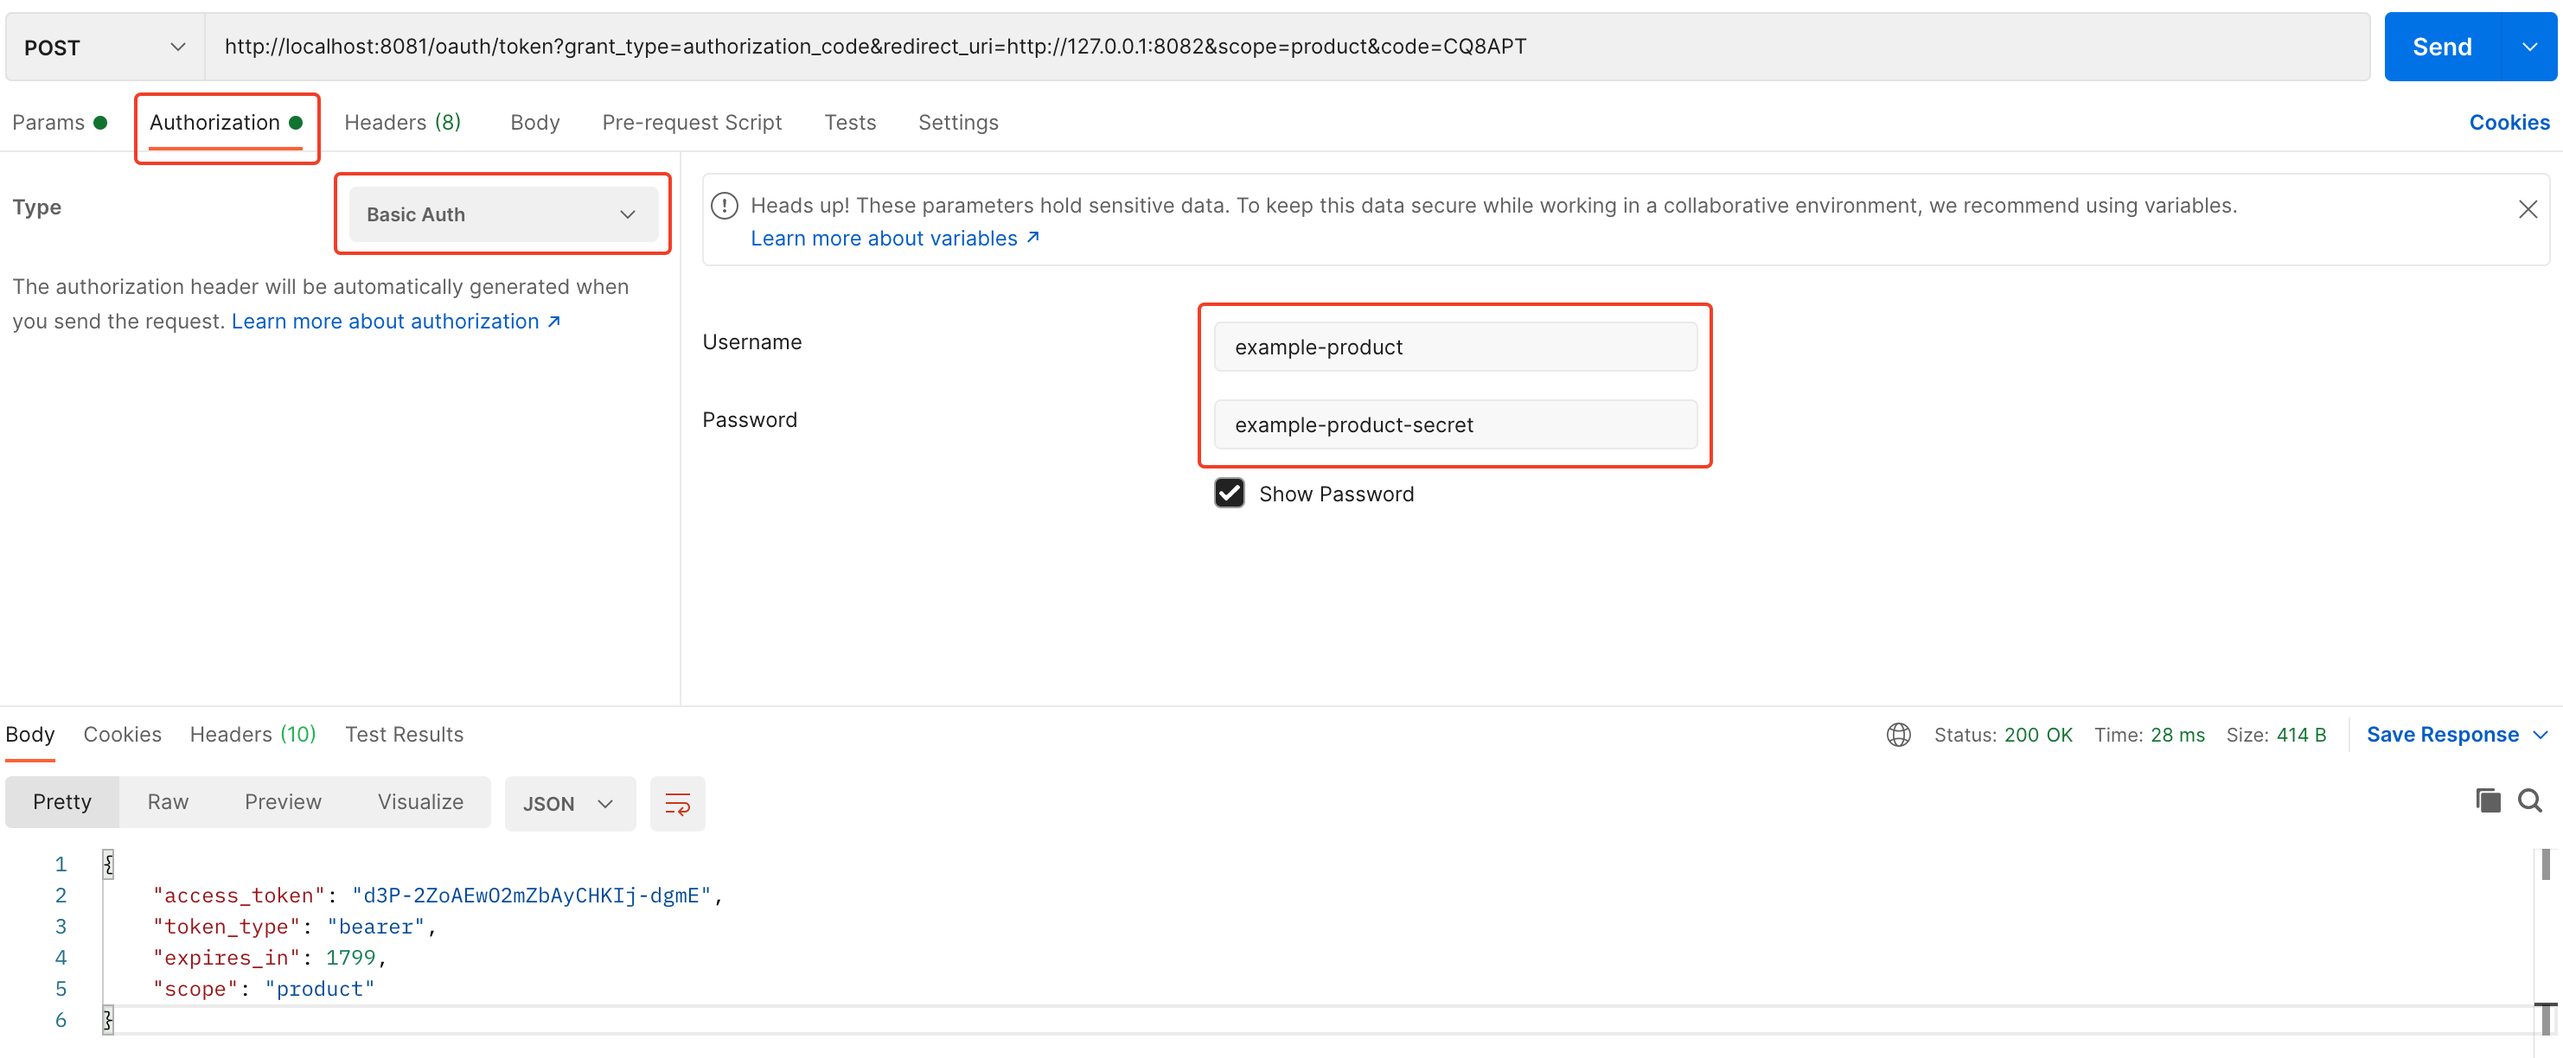
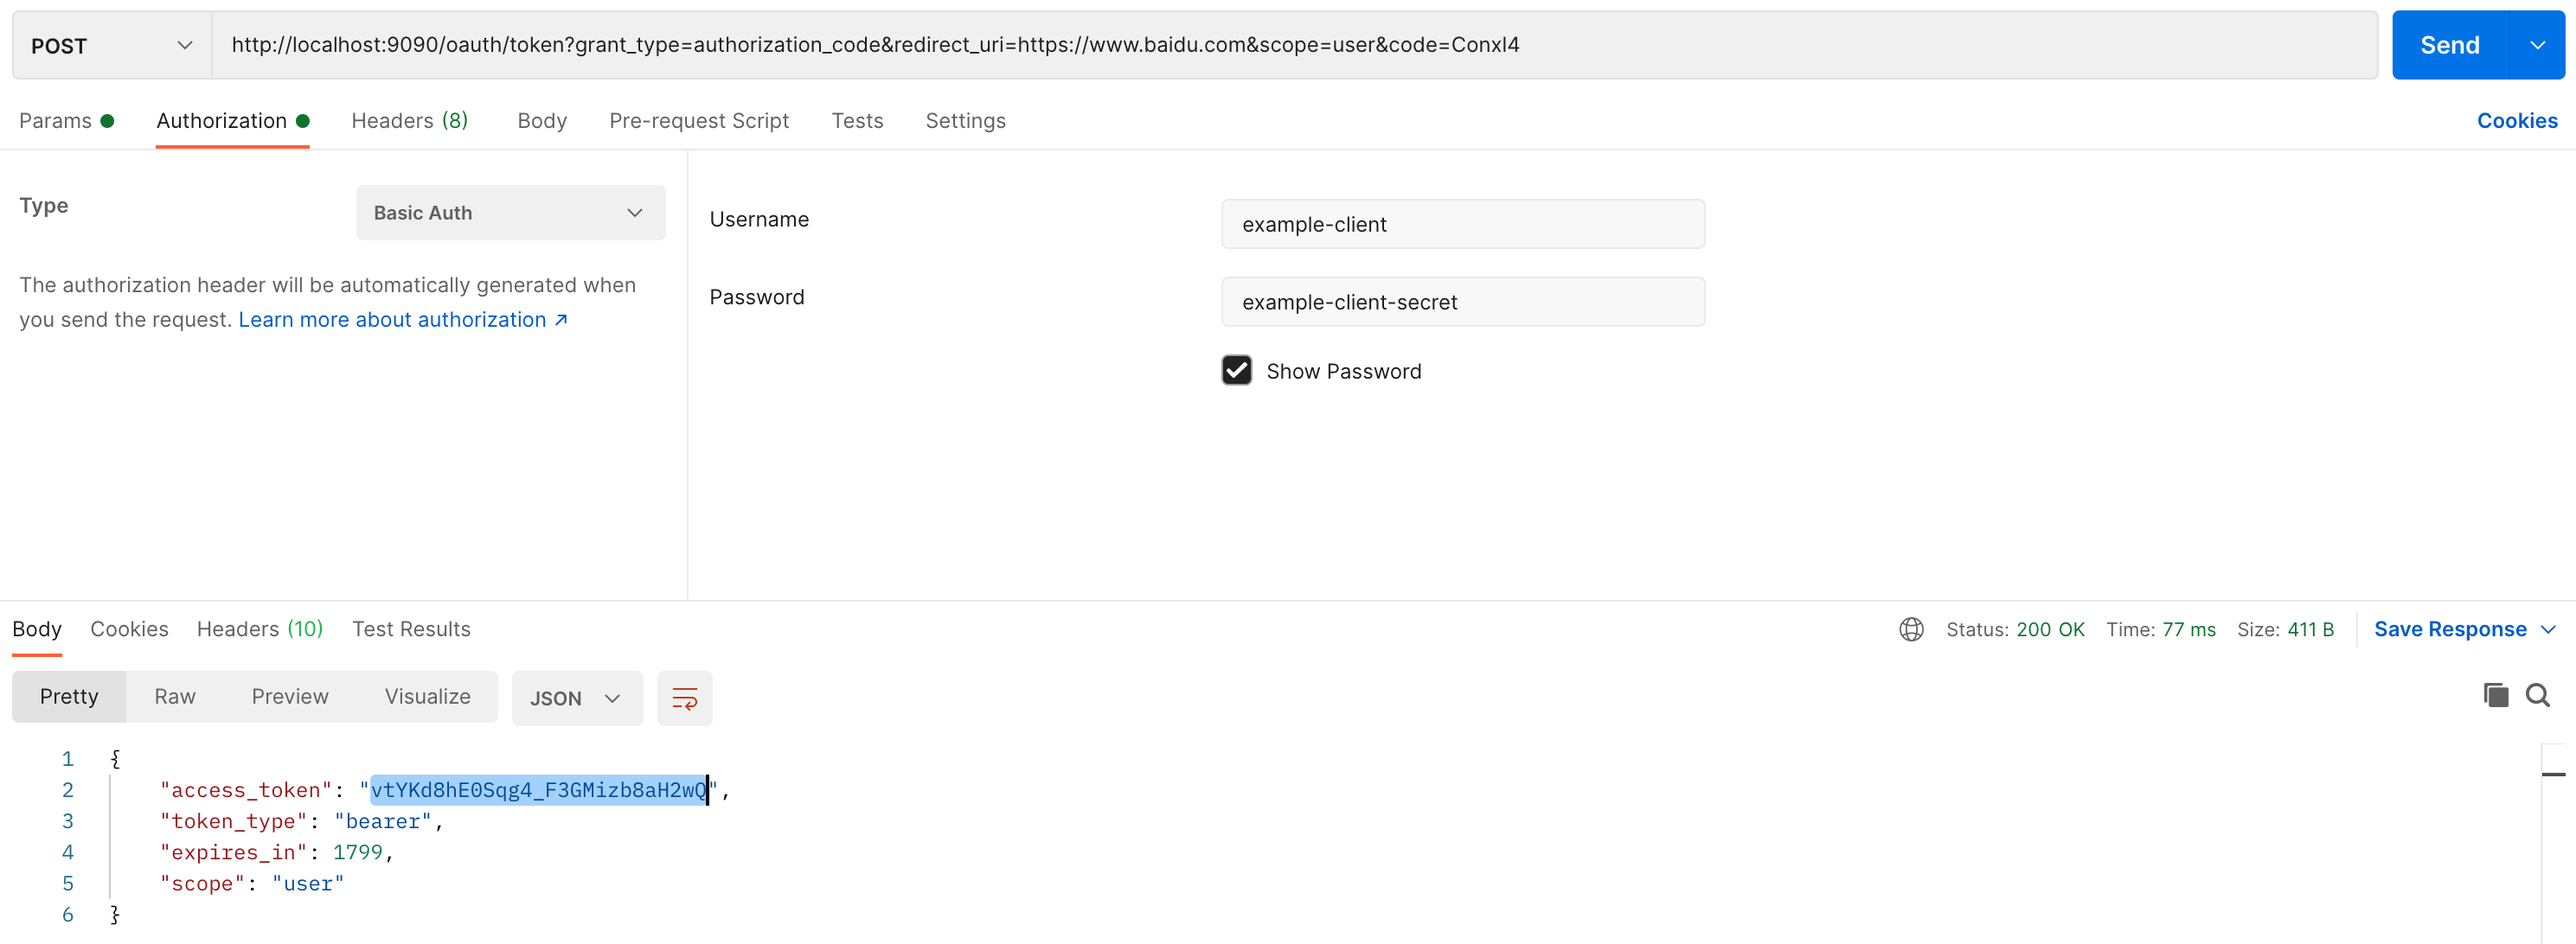
update

diff --git a/source/_posts/2023-11-04-spring-security-oauth2-practice.md b/source/_posts/2023-11-04-spring-security-oauth2-practice.md
@@ -8,7 +8,7 @@ tags:
 
 <!-- more -->
 
-关于 OAuth2 的基本概念和授权流程不再赘述，可以参考 [OAuth 2.0](https://oauth.net/2/) 和 [The OAuth 2.0 Authorization Framework](https://datatracker.ietf.org/doc/html/rfc6749) 进行学习。在我们构建的例子中虚拟用户 Bob 是 **Resource Owner**，`example-product` 工程是 **Resource Server**，Web Browser 和 Postman 充当了 **Client**，而工程 `example-auth` 是 **Authorization Server**。完整的项目目录结构如下所示
+关于 OAuth2 的基本概念和授权流程不再赘述，可以参考 [OAuth 2.0](https://oauth.net/2/) 和 [The OAuth 2.0 Authorization Framework](https://datatracker.ietf.org/doc/html/rfc6749) 进行学习。在我们构建的例子中虚拟用户 Bob 是 **Resource Owner**，`example-user` 工程是 **Resource Server**，Web Browser 和 Postman 充当了 **Client**，而工程 `example-auth` 是 **Authorization Server**。完整的项目目录结构如下所示
 
 ```text
 ├── example-auth
@@ -25,23 +25,23 @@ tags:
 │           │                   └── WebSecurityConfig.java               # Web 安全配置类
 │           └── resources
 │               └── application.yml                                      # 配置文件
-├── example-product
+├── example-user
 │   ├── pom.xml
 │   └── src
 │       └── main
 │           ├── java
 │           │   └── com
 │           │       └── example
-│           │           └── product
-│           │               ├── ExampleProductApplication.java          # 启动类
+│           │           └── user
+│           │               ├── ExampleUserApplication.java             # 启动类
 │           │               ├── config
 │           │               │   ├── MethodSecurityConfig.java           # 方法安全配置类
 │           │               │   ├── OAuth2ResourceServerConfig.java     # 资源服务器配置类
 │           │               │   └── WebSecurityConfig.java              # Web 安全配置类
 │           │               ├── controller
-│           │               │   └── ProductController.java              # 资源接口类
+│           │               │   └── UserController.java                 # 资源接口类
 │           │               └── entity
-│           │                   └── Product.java                        # 资源类
+│           │                   └── User.java                           # 资源类
 │           └── resources
 │               └── application.yml                                     # 配置文件
 └── pom.xml
@@ -113,11 +113,11 @@ tags:
 
 ### 端口配置
 
-我们给授权服务器分配的端口为 `8081`，配置在 `application.yml` 文件中
+我们给授权服务器分配的端口为 `9090`，配置在 `application.yml` 文件中
 
 ```yaml
 server:
-  port: 8081
+  port: 9090
 ```
 
 ### Web 安全配置
@@ -194,11 +194,11 @@ public class OAuth2AuthorizationServerConfig extends AuthorizationServerConfigur
     @Override
     public void configure(ClientDetailsServiceConfigurer clients) throws Exception {
         clients.inMemory()
-                .withClient("example-product")          // 客户端 ID
-                .secret("{noop}example-product-secret") // 客户端登录密码
+                .withClient("example-client")          // 客户端 ID
+                .secret("{noop}example-client-secret") // 客户端登录密码
                 .autoApprove(false)
-                .redirectUris("http://127.0.0.1:8082")  // 获取授权码后的跳转地址，这里配置的是资源服务器的地址
-                .scopes("product", "user")
+                .redirectUris("https://www.baidu.com") // 获取授权码后的跳转地址
+                .scopes("user", "product")
                 .accessTokenValiditySeconds(30 * 60)
                 .authorizedGrantTypes("authorization_code", "implicit", "password", "client_credentials");
     }
@@ -238,7 +238,7 @@ public class OAuth2AuthorizationServerConfig extends AuthorizationServerConfigur
         <version>0.0.1-SNAPSHOT</version>
     </parent>
 
-    <artifactId>example-product</artifactId>
+    <artifactId>example-user</artifactId>
 
     <dependencies>
         <dependency>
@@ -278,11 +278,11 @@ public class OAuth2AuthorizationServerConfig extends AuthorizationServerConfigur
 
 ### 端口配置
 
-我们给资源服务器分配的端口为 `8082`，配置在 `application.yml` 文件中
+我们给资源服务器分配的端口为 `8081`，配置在 `application.yml` 文件中
 
 ```yaml
 server:
-  port: 8082
+  port: 8081
 ```
 
 ### 资源和资源接口
@@ -293,7 +293,7 @@ server:
 import lombok.Data;
 
 @Data
-public class Product {
+public class User {
     private Integer id;
 
     private String name;
@@ -303,7 +303,7 @@ public class Product {
 我们的资源接口也很简单，它只有一个访问详情的接口
 
 ```java
-import com.example.product.entity.Product;
+import com.example.user.entity.User;
 import org.springframework.security.access.prepost.PreAuthorize;
 import org.springframework.web.bind.annotation.GetMapping;
 import org.springframework.web.bind.annotation.PathVariable;
@@ -311,20 +311,20 @@ import org.springframework.web.bind.annotation.RequestMapping;
 import org.springframework.web.bind.annotation.RestController;
 
 @RestController
-@RequestMapping("/product")
-public class ProductController {
+@RequestMapping("/user")
+public class UserController {
     @GetMapping("/{id}")
-    @PreAuthorize("#oauth2.hasScope('product')")
-    public Product detail(@PathVariable("id") Integer id) {
-        Product product = new Product();
-        product.setId(id);
-        product.setName("product-" + id);
-        return product;
+    @PreAuthorize("#oauth2.hasScope('user')")
+    public User detail(@PathVariable("id") Integer id) {
+        User user = new User();
+        user.setId(id);
+        user.setName("user-" + id);
+        return user;
     }
 }
 ```
 
-注意到 `@PreAuthorize("#oauth2.hasScope('product')")` 这行代码中的 `#oauth2.hasScope('product')`，我们需要开启全局的方法安全才会生效，参考后面的方法安全配置类。
+注意到 `@PreAuthorize("#oauth2.hasScope('user')")` 这行代码中的 `#oauth2.hasScope('user')`，我们需要开启全局的方法安全才会生效，参考后面的方法安全配置类。
 
 ### Web 安全配置
 
@@ -361,9 +361,9 @@ public class OAuth2ResourceServerConfig extends ResourceServerConfigurerAdapter 
     @Override
     public void configure(ResourceServerSecurityConfigurer resources) throws Exception {
         RemoteTokenServices tokenServices = new RemoteTokenServices();
-        tokenServices.setCheckTokenEndpointUrl("http://localhost:8081/oauth/check_token"); //授权服务器校验 access_token 的地址
-        tokenServices.setClientId("example-product");            // 在授权服务器配置的客户端 ID
-        tokenServices.setClientSecret("example-product-secret"); // 在授权服务器配置的客户端密码
+        tokenServices.setCheckTokenEndpointUrl("http://localhost:9090/oauth/check_token"); //授权服务器校验 access_token 的地址
+        tokenServices.setClientId("example-client");            // 在授权服务器配置的客户端 ID
+        tokenServices.setClientSecret("example-client-secret"); // 在授权服务器配置的客户端密码
 
         resources.tokenServices(tokenServices);
     }
@@ -397,15 +397,15 @@ public class MethodSecurityConfig extends GlobalMethodSecurityConfiguration {
 
 ### 申请授权码
 
-在浏览器中访问 [http://localhost:8081/oauth/authorize?client_id=example-product&cliect_secret=example-product-secret&response_type=code](http://localhost:8081/oauth/authorize?client_id=example-product&cliect_secret=example-product-secret&response_type=code) 申请授权码，其中的 `client_id` 和 `cliect_secret` 的值就是在授权服务器配置类中配置的客户端 ID 和客户端密码
+在浏览器中访问 [http://localhost:9090/oauth/authorize?client_id=example-client&cliect_secret=example-client-secret&response_type=code](http://localhost:9090/oauth/authorize?client_id=example-client&cliect_secret=example-client-secret&response_type=code) 申请授权码，其中的 `client_id` 和 `cliect_secret` 的值就是在授权服务器配置类中配置的客户端 ID 和客户端密码
 
 ```java
 clients.inMemory()
-        .withClient("example-product")
-        .secret("{noop}example-product-secret")
+        .withClient("example-client")
+        .secret("{noop}example-client-secret")
 ```
 
-此时会跳转到 [http://localhost:8081/login](http://localhost:8081/login) 登录页面
+此时会跳转到 [http://localhost:9090/login](http://localhost:9090/login) 登录页面
 
 在这里输入资源拥有者的用户名和密码，即 `bob` 和 `123456`
 
@@ -415,15 +415,17 @@ clients.inMemory()
 
 {% asset_img oauth-approval.png %}
 
-当我们选择好对资源的授权后，点击 `Authorize` 按钮就会跳转到我们在授权服务器配置类中配置的跳转地址，即 `.redirectUris("http://127.0.0.1:8082")`，只是此时会携带授权码 [http://127.0.0.1:8082/?code=SGyCRx](http://127.0.0.1:8082/?code=SGyCRx)，`SGyCRx` 就是授权码。
+当我们选择好对资源的授权后，点击 `Authorize` 按钮就会跳转到我们在授权服务器配置类中配置的跳转地址，即 `.redirectUris("https://www.baidu.com")`，只是此时会携带授权码 [https://www.baidu.com/?code=Conxl4](https://www.baidu.com/?code=Conxl4)，`Conxl4` 就是授权码。
+
+{% asset_img authorization-code.png %}
 
 ### 申请访问令牌
 
-使用 Postman 访问 [http://localhost:8081/oauth/token?grant_type=authorization_code&redirect_uri=http://127.0.0.1:8082&scope=product&code=CQ8APT](http://localhost:8081/oauth/token?grant_type=authorization_code&redirect_uri=http://127.0.0.1:8082&scope=product&code=CQ8APT) 获取访问令牌
+使用 Postman 访问 [http://localhost:9090/oauth/token?grant_type=authorization_code&redirect_uri=https://www.baidu.com&scope=user&code=Conxl4](http://localhost:9090/oauth/token?grant_type=authorization_code&redirect_uri=https://www.baidu.com&scope=user&code=Conxl4) 获取访问令牌
 
 {% asset_img access-token.png %}
 
-注意请求的方法为 `POST`，`grant_type` 的值为 `authorization_code`，`redirect_uri` 的值为在授权服务器配置类中配置的跳转地址 `http://127.0.0.1:8082`，`scope` 的值为 `product`，`code` 的值为在前面获取的授权码 `CQ8APT`。另外需要注意需要配置 `Authorization` 参数，具体的配置如下，`Type` 需要选择 `Basic Auth`，`Username` 和 `Password` 分别是在授权服务器配置类中配置的客户端 ID 和客户端密码
+注意请求的方法为 `POST`，`grant_type` 的值为 `authorization_code`，`redirect_uri` 的值为在授权服务器配置类中配置的跳转地址 `https://www.baidu.com`，`scope` 的值为 `user`，`code` 的值为在前面获取的授权码 `Conxl4`。另外需要注意需要配置 `Authorization` 参数，具体的配置如下，`Type` 需要选择 `Basic Auth`，`Username` 和 `Password` 分别是在授权服务器配置类中配置的客户端 ID 和客户端密码
 
 {% asset_img access-token-authorization.png %}
 
@@ -431,10 +433,10 @@ clients.inMemory()
 
 ```json
 {
-    "access_token": "d3P-2ZoAEwO2mZbAyCHKIj-dgmE",
+    "access_token": "vtYKd8hE0Sqg4_F3GMizb8aH2wQ",
     "token_type": "bearer",
     "expires_in": 1799,
-    "scope": "product"
+    "scope": "user"
 }
 ```
 
@@ -442,7 +444,7 @@ clients.inMemory()
 
 ### 校验令牌
 
-我们可以访问 [http://localhost:8081/oauth/check_token?token=d3P-2ZoAEwO2mZbAyCHKIj-dgmE](http://localhost:8081/oauth/check_token?token=d3P-2ZoAEwO2mZbAyCHKIj-dgmE) 校验访问令牌的有效性，其中 `token` 参数的值为前面获取的访问令牌，同时要注意请求的方法为 `POST`
+我们可以访问 [http://localhost:9090/oauth/check_token?token=vtYKd8hE0Sqg4_F3GMizb8aH2wQ](http://localhost:9090/oauth/check_token?token=vtYKd8hE0Sqg4_F3GMizb8aH2wQ) 校验访问令牌的有效性，其中 `token` 参数的值为前面获取的访问令牌，同时要注意请求的方法为 `POST`
 
 {% asset_img check-token.png %}
 
@@ -451,14 +453,14 @@ clients.inMemory()
 ```json
 {
     "active": true,
-    "exp": 1699082465,
+    "exp": 1700056305,
     "user_name": "bob",
     "authorities": [
         "ROLE_admin"
     ],
-    "client_id": "example-product",
+    "client_id": "example-client",
     "scope": [
-        "product"
+        "user"
     ]
 }
 ```
@@ -475,11 +477,11 @@ clients.inMemory()
 {
     "error": "insufficient_scope",
     "error_description": "Insufficient scope for this resource",
-    "scope": "product"
+    "scope": "user"
 }
 ```
 
-这证明我们的 `@PreAuthorize("#oauth2.hasScope('product')")` 起作用了。当我们校验这个访问令牌时返回结果的 `scope` 部分如下
+这证明我们的 `@PreAuthorize("#oauth2.hasScope('user')")` 起作用了。当我们校验这个访问令牌时返回结果的 `scope` 部分如下
 
 ```json
 "scope": [
